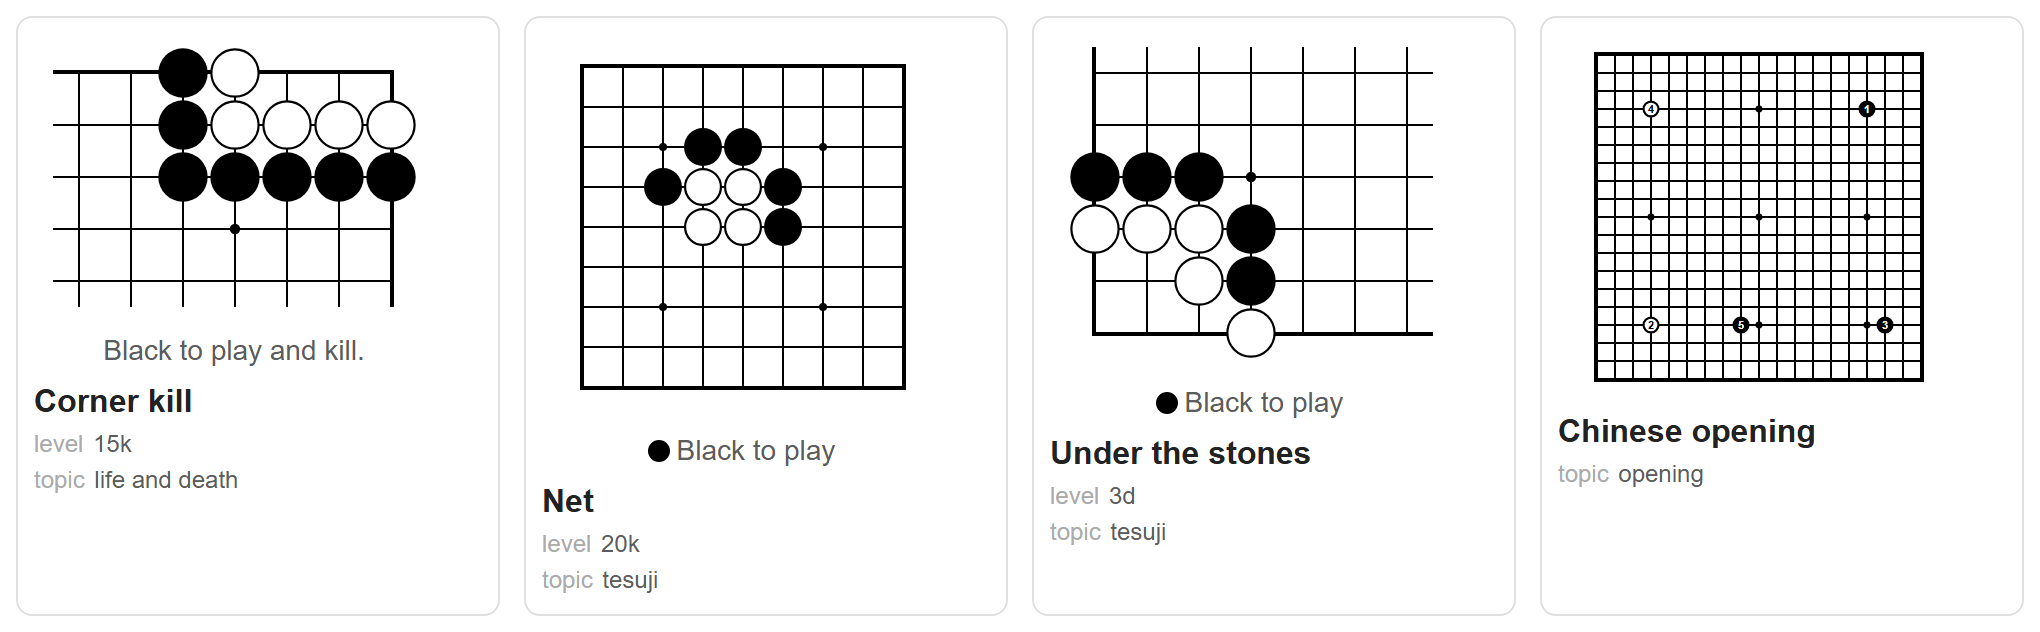
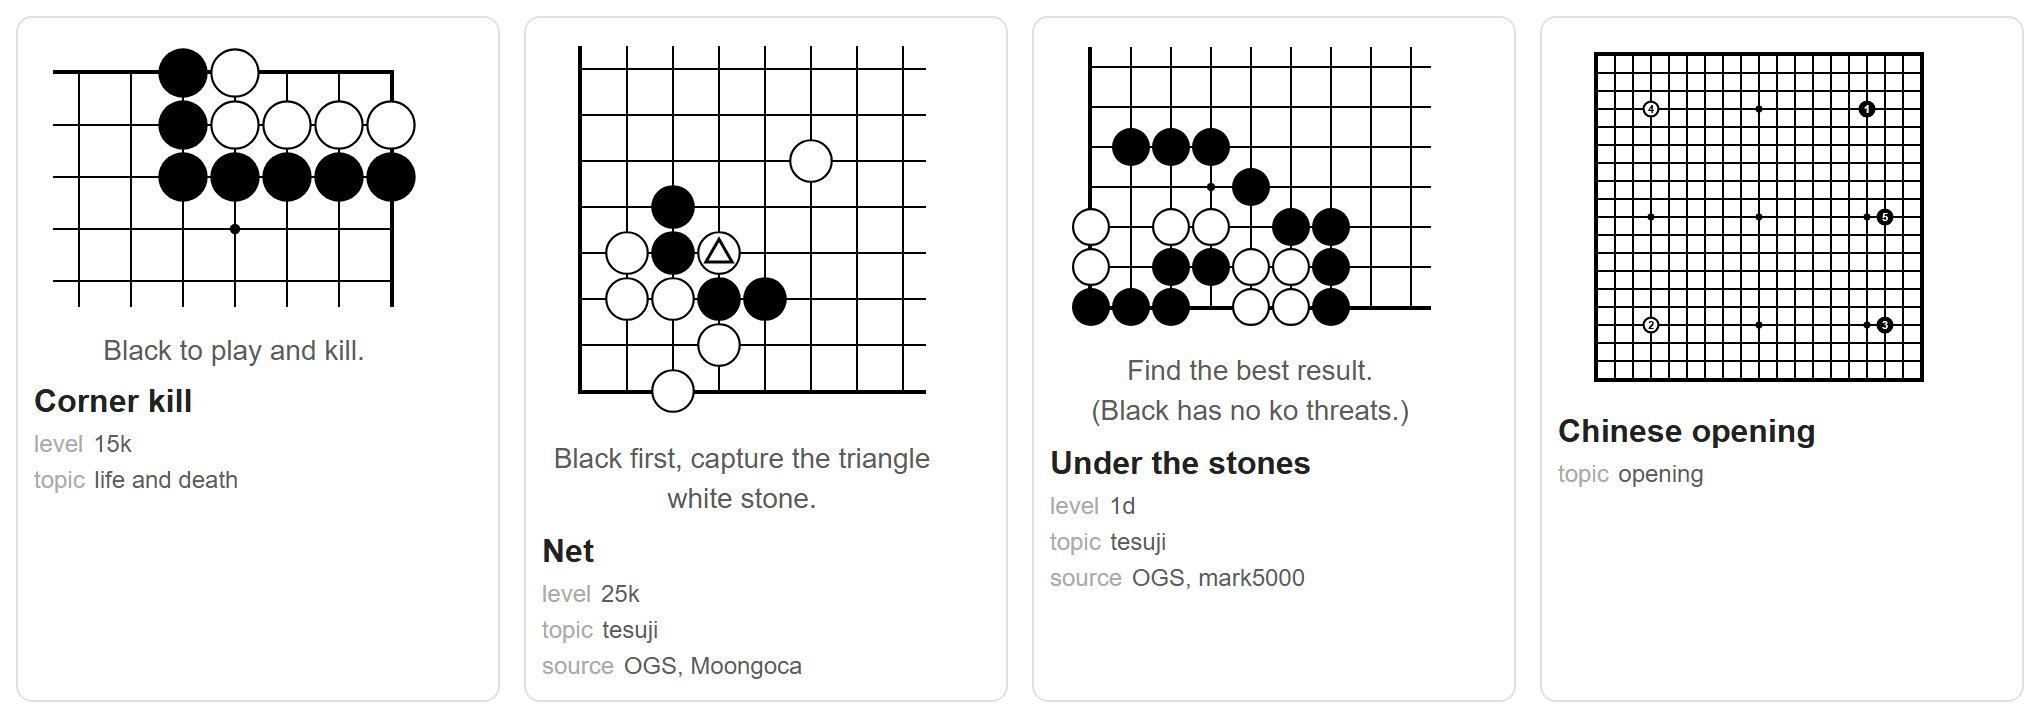
README: real problems in the Bases picture
The net and under-the-stones problems are now OGS puzzles 55961 (Moongoca)
and 33 (mark5000), embedded as links and credited on their cards; the
Chinese opening's fifth move is at R10. OGS puzzle texts lose their
Markdown heading marks (####Correct!) on import.

diff --git a/tests/ogs.test.ts b/tests/ogs.test.ts
@@ -53,7 +53,7 @@ test('a puzzle turned into SGF: setup, turns, verdicts, comments, marks, the mai
 		move_tree: {
 			x: -1, y: -1,
 			marks: [{ x: 3, y: 3, marks: { triangle: true } }],
-			trunk_next: { x: 4, y: 4, text: 'the main line', branches: [{ x: 5, y: 5, correct_answer: true }] },
+			trunk_next: { x: 4, y: 4, text: '####the main line', branches: [{ x: 5, y: 5, correct_answer: true }] },
 			branches: [
 				{ x: 0, y: 8, branches: [{ x: 1, y: 8, wrong_answer: true, text: 'dead', marks: [{ x: 2, y: 8, marks: { letter: 'A', cross: true } }] }] },
 			],
@@ -70,7 +70,7 @@ test('a puzzle turned into SGF: setup, turns, verdicts, comments, marks, the mai
 	assert.deepEqual(root.props.TR, ['dd']);
 	const [main, side] = root.children;
 	assert.deepEqual(main.props.W, ['ee']); // white moves first; the trunk is the first line
-	assert.equal(getText(main, 'C'), 'the main line');
+	assert.equal(getText(main, 'C'), 'the main line'); // (and a Markdown heading)
 	assert.deepEqual(main.children[0].props.B, ['ff']);
 	assert.deepEqual(main.children[0].props.TE, ['1']);
 	assert.deepEqual(side.props.W, ['ai']);

diff --git a/src/ogs.ts b/src/ogs.ts
@@ -44,8 +44,12 @@ function checkStatus(t: OgsTarget, status: number): void {
 	if (status !== 200) throw new ImportError(`OGS answered ${status} for ${named(t)}.`);
 }
 
-/** **bold** and __bold__ as plain words (puzzle descriptions are written in Markdown). */
-const plain = (s: string): string => s.replace(/\*\*(.+?)\*\*/g, '$1').replace(/__(.+?)__/g, '$1').trim();
+/**
+ * **bold**, __bold__ and headings (`#### Correct!`) as plain words: puzzle texts are
+ * written in Markdown.
+ */
+const plain = (s: string): string =>
+	s.replace(/^[ \t]*#{1,6}[ \t]*/gm, '').replace(/\*\*(.+?)\*\*/g, '$1').replace(/__(.+?)__/g, '$1').trim();
 
 /* ------------------------------------------------------------- games, reviews */
 
